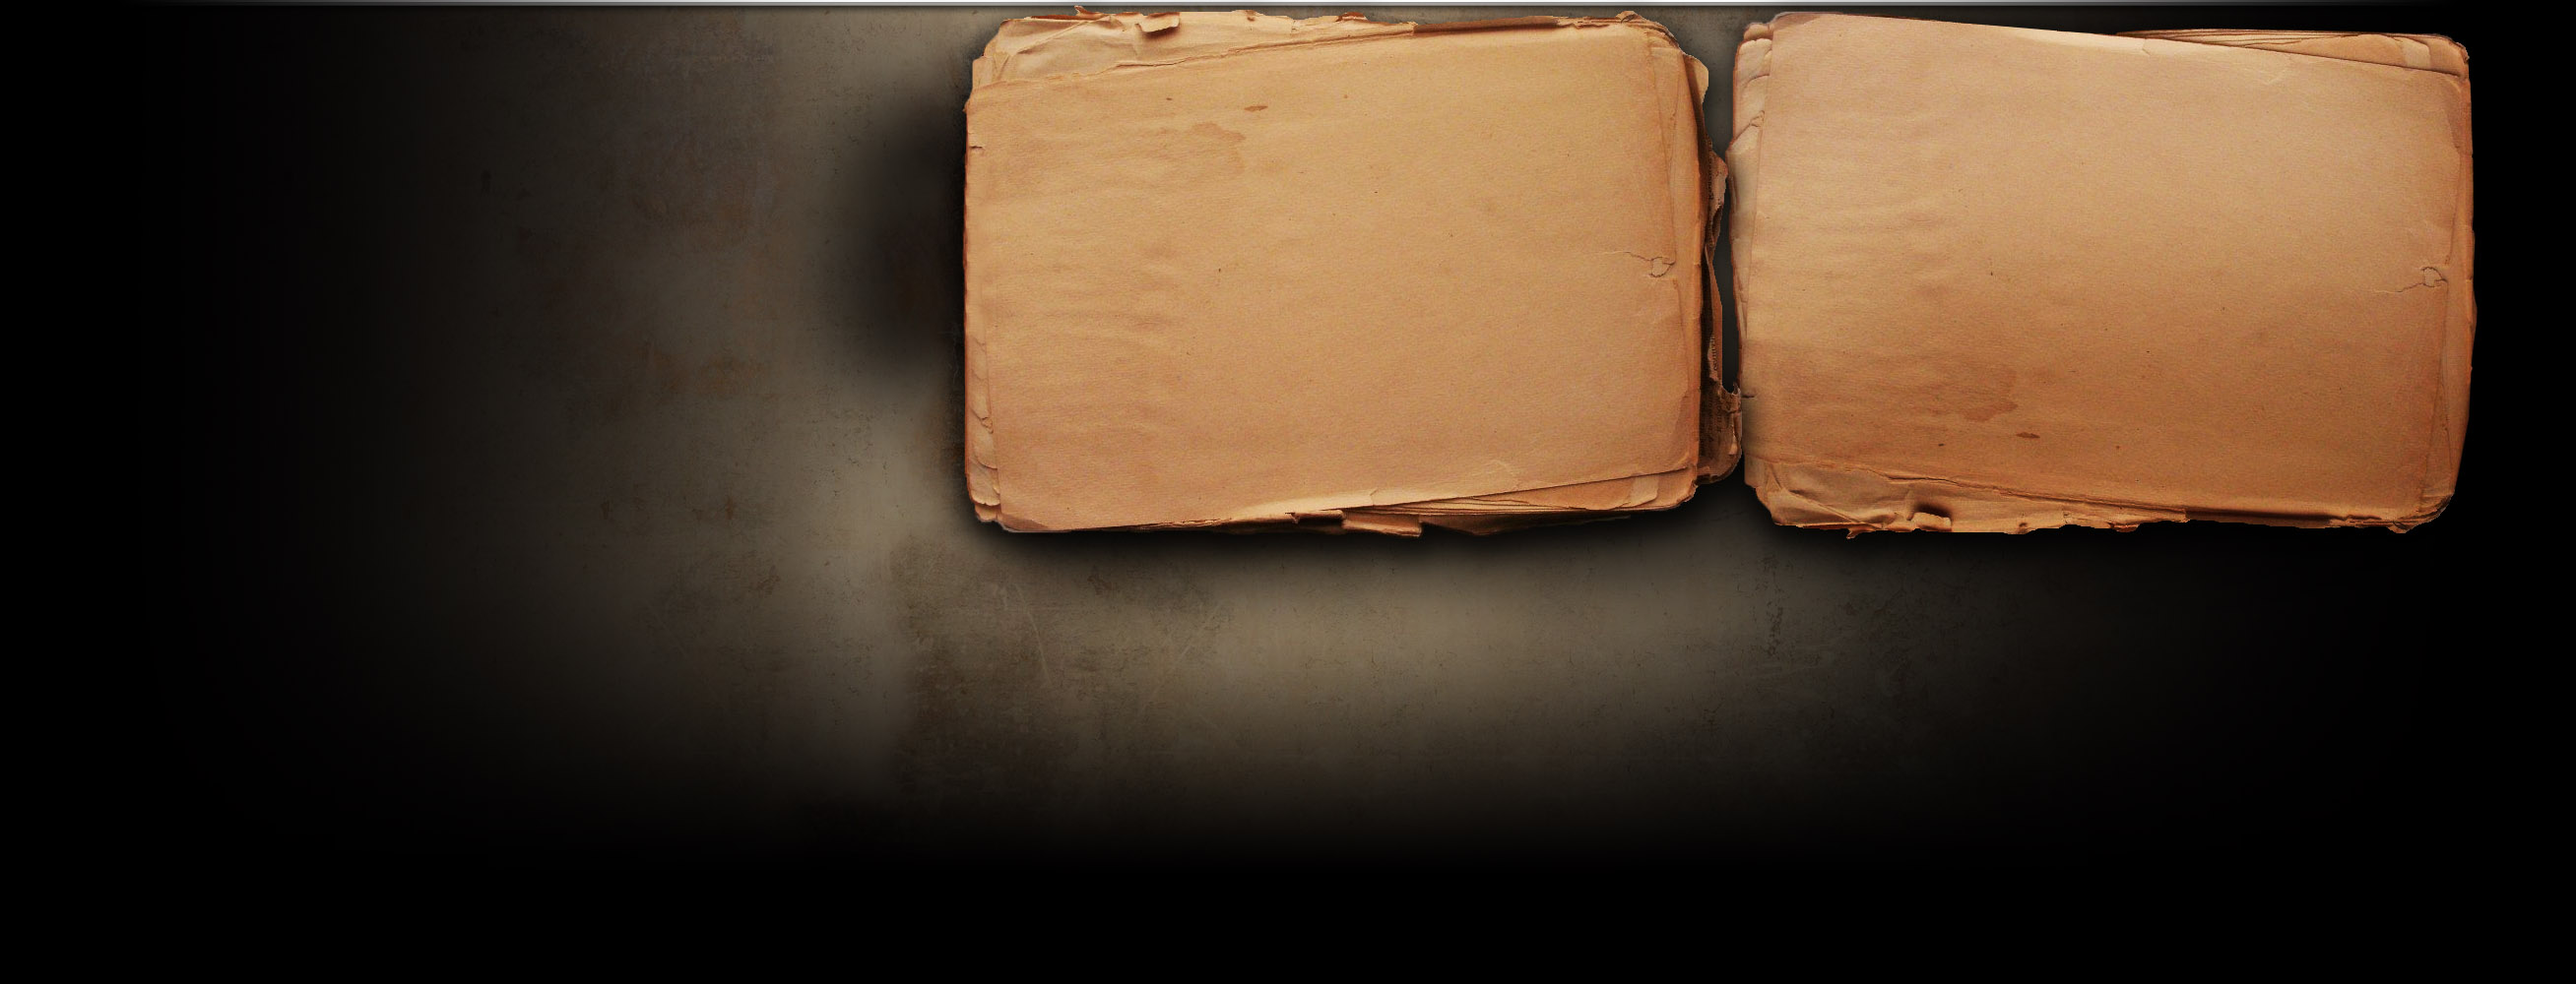
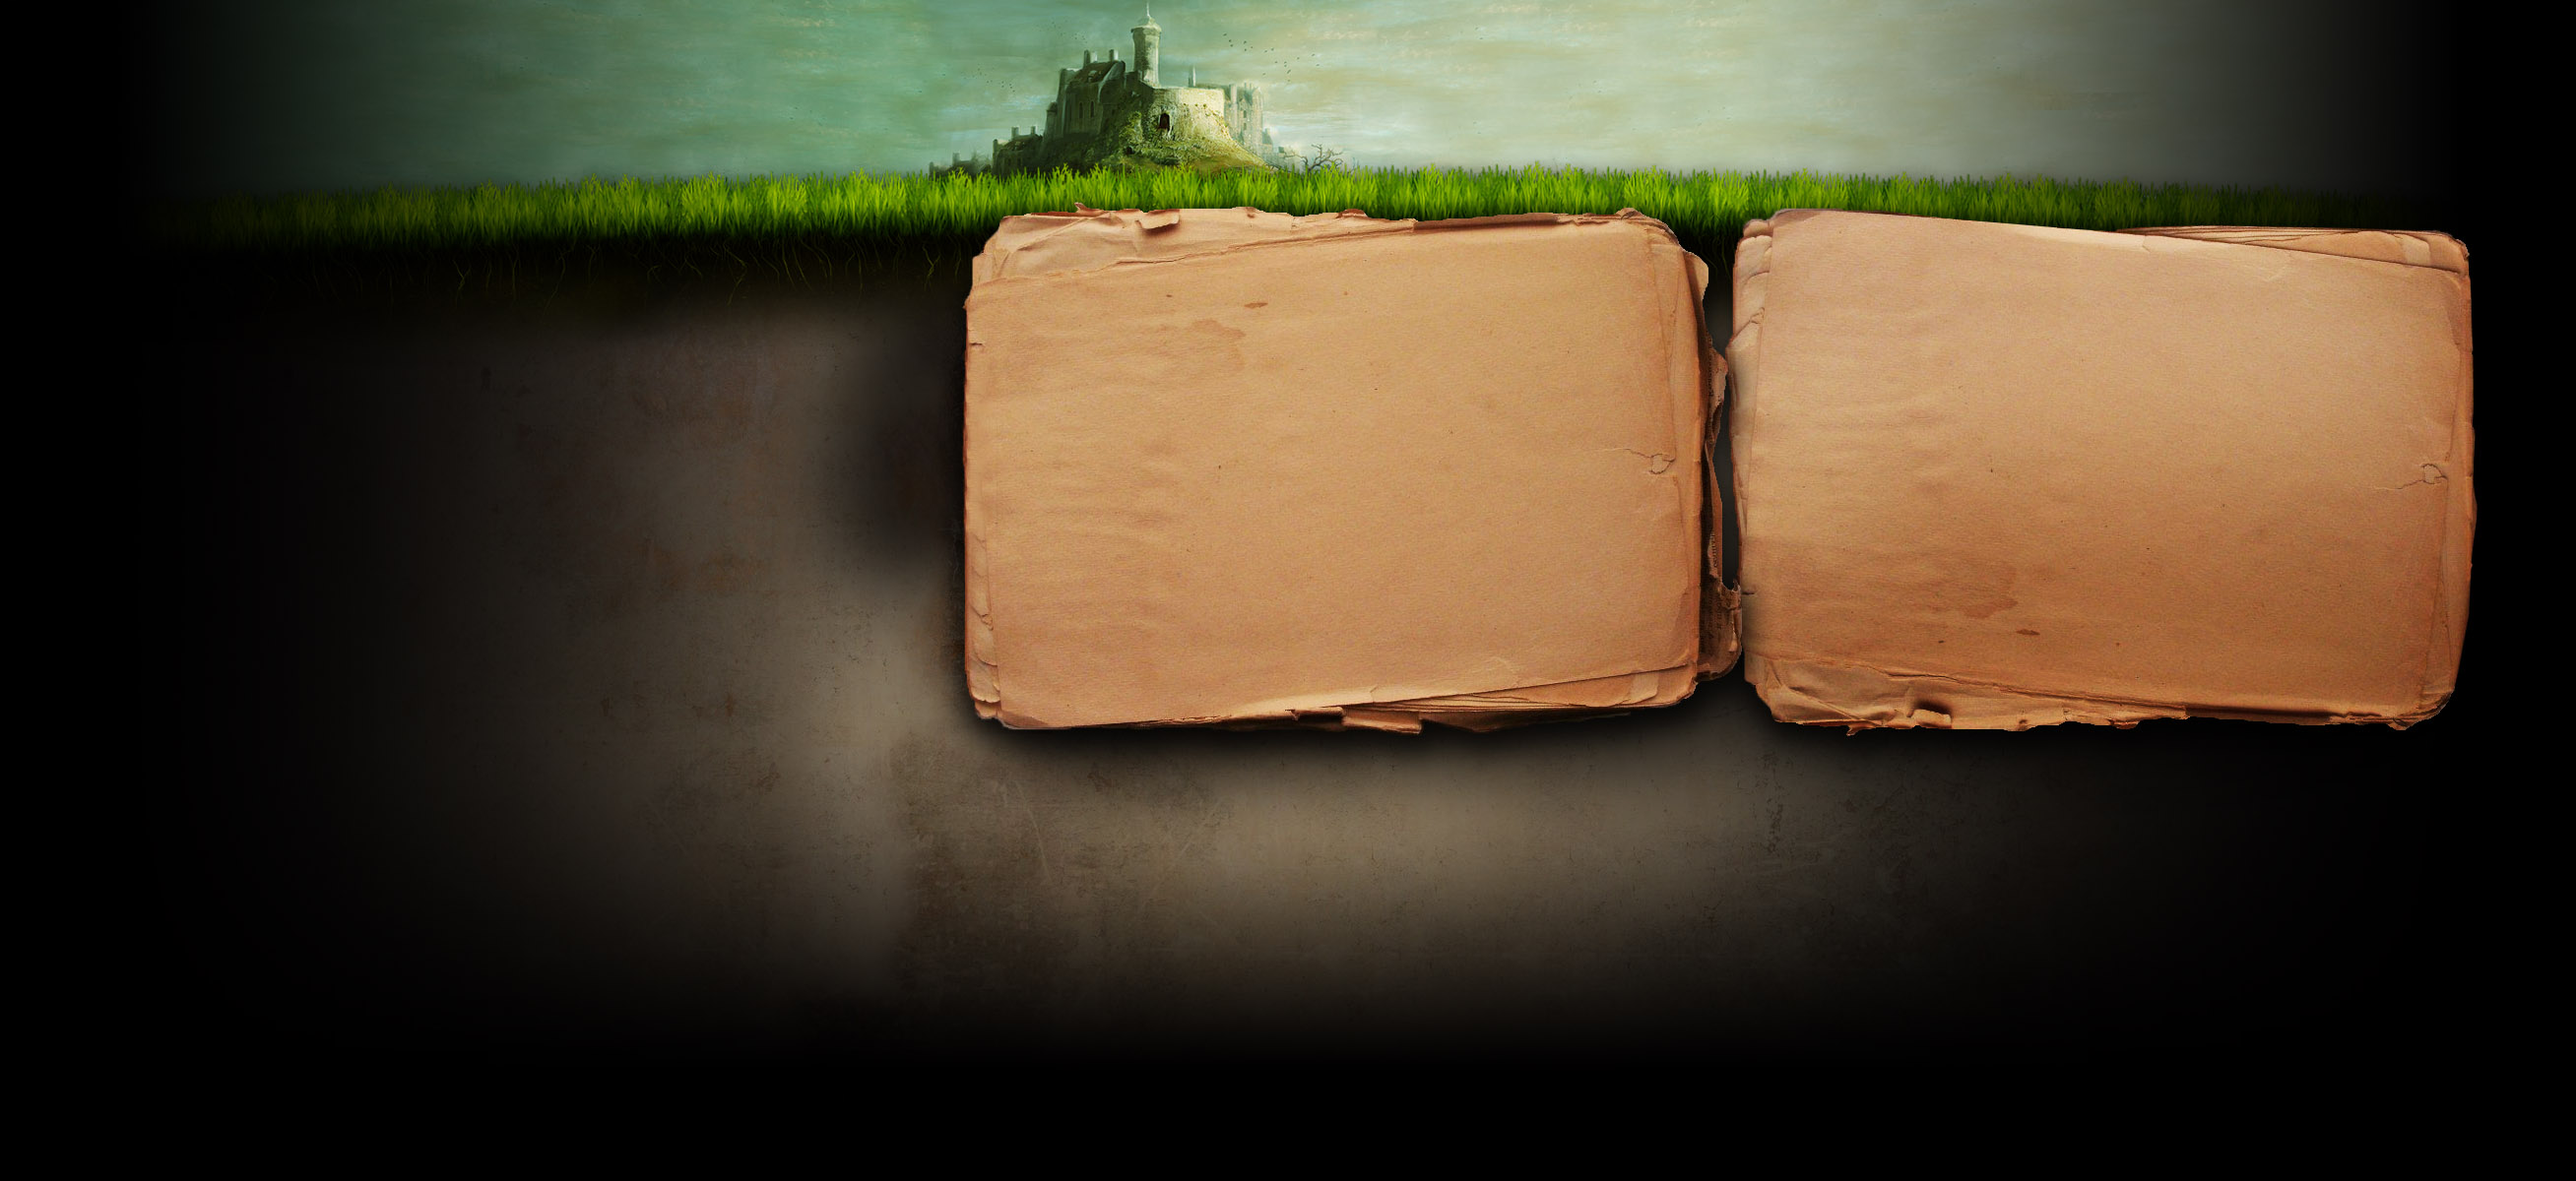
Finish header style

diff --git a/Munchkin Online/Content/css/style.css b/Munchkin Online/Content/css/style.css
@@ -30,7 +30,7 @@ HTML, BODY
 
 BODY
 {
-    background: url(/Content/img/main.jpg)  50% 114px no-repeat black;
+    background: url(/Content/img/main.jpg) center top no-repeat black;
     height: 100%;
 }
 
@@ -38,7 +38,7 @@ BODY
 {
     BODY
     {
-        background-position: -813px 114px;
+        background-position: -813px top;
     }
 }
 HEADER
@@ -47,14 +47,15 @@ HEADER
     padding: 10px;
     display: table;
     width: 990px;
-    margin: auto;
-    color: white;
+    margin: 0px auto 96px;
+    color: black;
 }
 
 HEADER > H1
 {
     display: table-cell;
     vertical-align: middle;
+    text-shadow: 0 0 10px black;
 }
 
 HEADER > .moto
@@ -62,6 +63,7 @@ HEADER > .moto
     display: table-cell;
     margin-right: 100px;
     vertical-align: middle;
+    text-shadow: 0 0 10px black;
 }
 
 HEADER > .auth-bar-container
